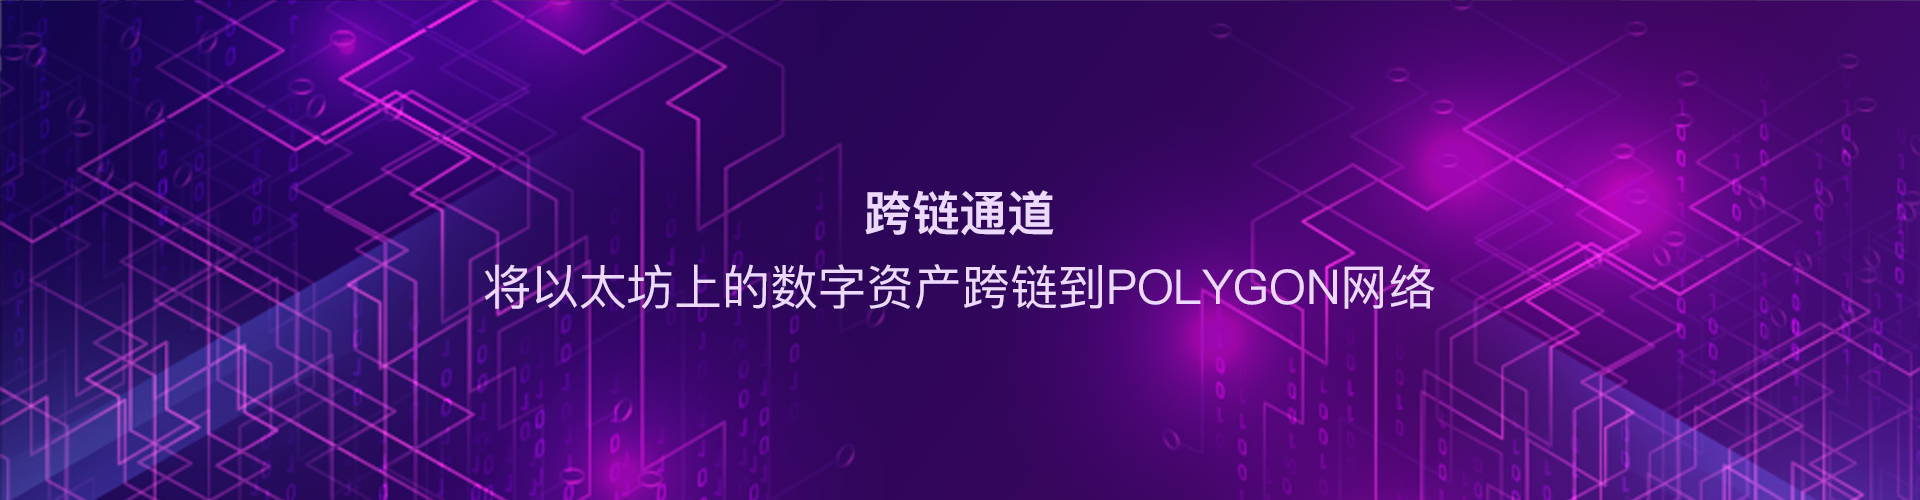
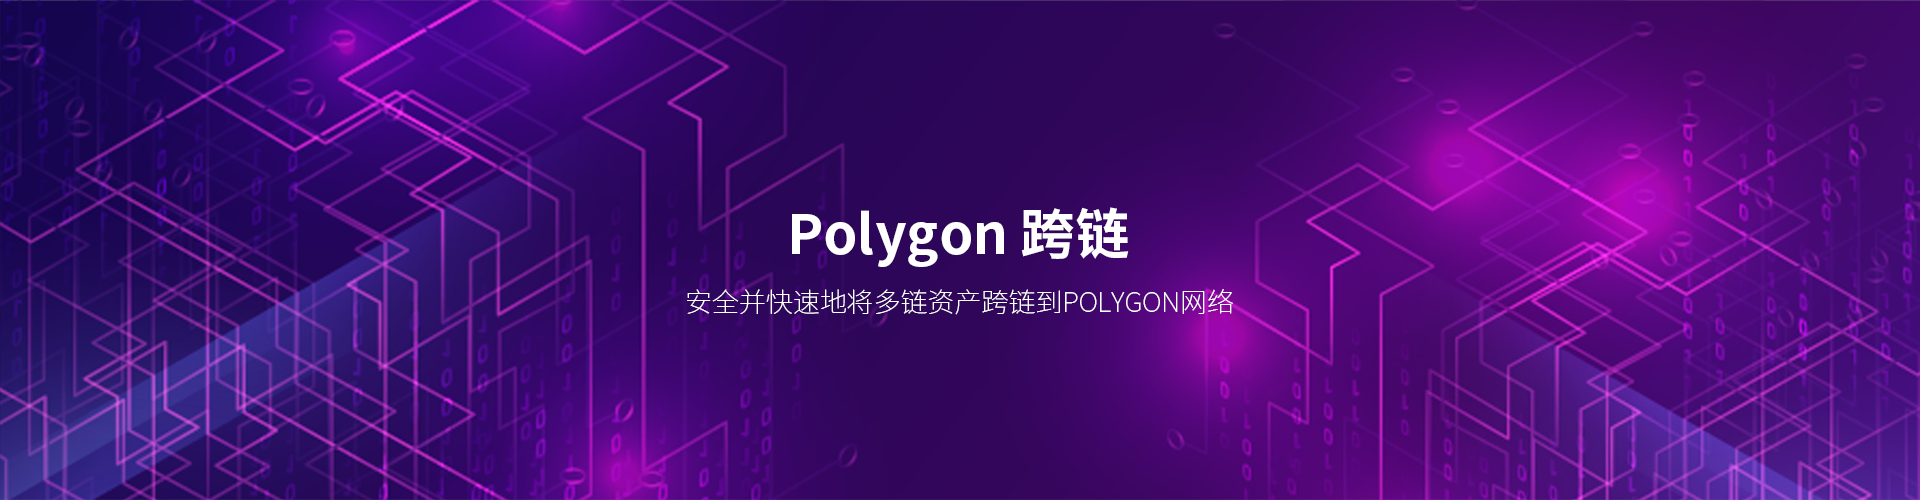
1

diff --git a/src/views/index.vue b/src/views/index.vue
@@ -1,14 +1,14 @@
 <template>
     <div class="container">
         <Header></Header>
-        <div class="banner" v-show="isCn">
-            <img src="../assets/img/banner.png" width="100%">
-            <img src="../assets/img/mImg/mImg1.png" width="100%">
+        <div class="banner">
+            <img src="../assets/img/banner.png" v-show="isCn" width="100%">
+            <img src="../assets/img/banner11.png" v-show="!isCn" width="100%">
         </div>
-        <div class="banner" v-show="!isCn">
-            <img src="../assets/img/banner.png" width="100%">
+        <!-- <div class="banner" v-show="!isCn">
+            <img src="../assets/img/banner11.png" width="100%">
             <img src="../assets/img/mImg/mImg1.png" width="100%">
-        </div>
+        </div> -->
         <div class="btnsbar">
             <router-link to="/project" class="btn">{{$t('lang.lang1')}}</router-link>
             <router-link to="/" class="btn">{{$t('lang.lang2')}}</router-link>
@@ -113,12 +113,12 @@ export default {
 <style lang="less" scoped>
 .container{
     .banner{
-        img:first-child{
+        /* img:first-child{
             display:block;
         }
         img:last-child{
             display:none;
-        }
+        } */
     }
     .btnsbar{
         text-align:center;
@@ -257,12 +257,12 @@ export default {
 @media screen and (max-width:1200px) {
     .container{
         .banner{
-            img:first-child{
+            /* img:first-child{
                 display:none;
             }
             img:last-child{
                 display:block;
-            }
+            } */
         }
         .btnsbar{
             margin-top:16px;

diff --git a/src/views/crossChain.vue b/src/views/crossChain.vue
@@ -2,8 +2,8 @@
     <div class="container">
         <Header></Header>
         <div class="chainPanel">
-            <img class="banner" v-show="!isCn" src="../assets/img/banner2.png">
             <img class="banner" v-show="isCn" src="../assets/img/banner2.png">
+            <img class="banner" v-show="!isCn" src="../assets/img/banner22.png">
             <p class="chainInfo info1">
                 {{$t('lang.lang76')}}
             </p>
